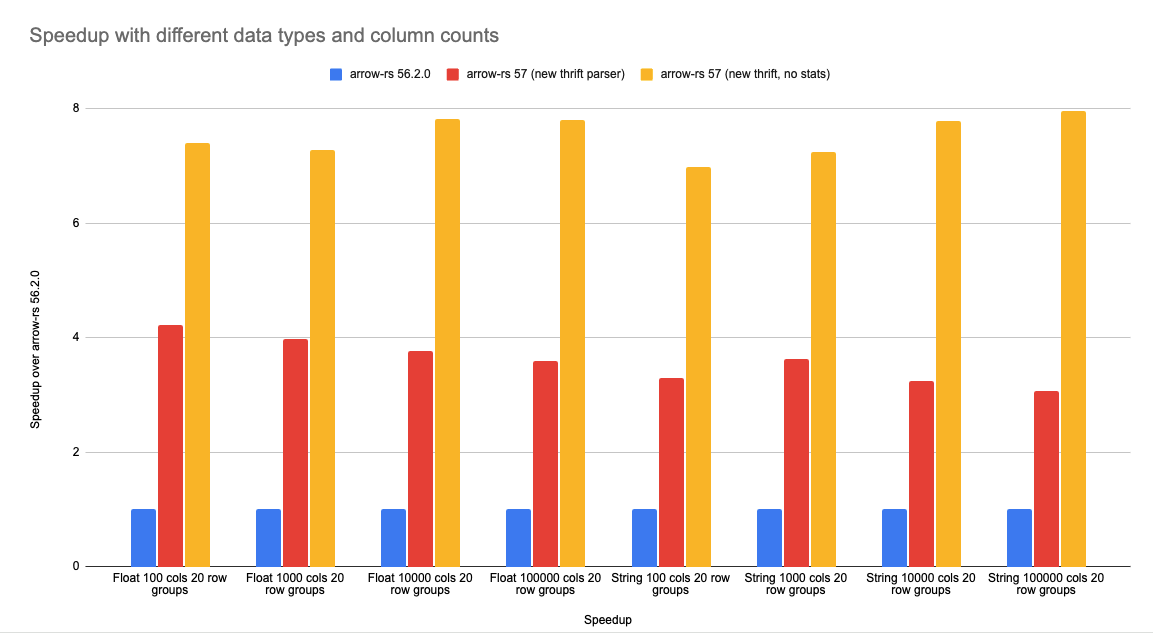
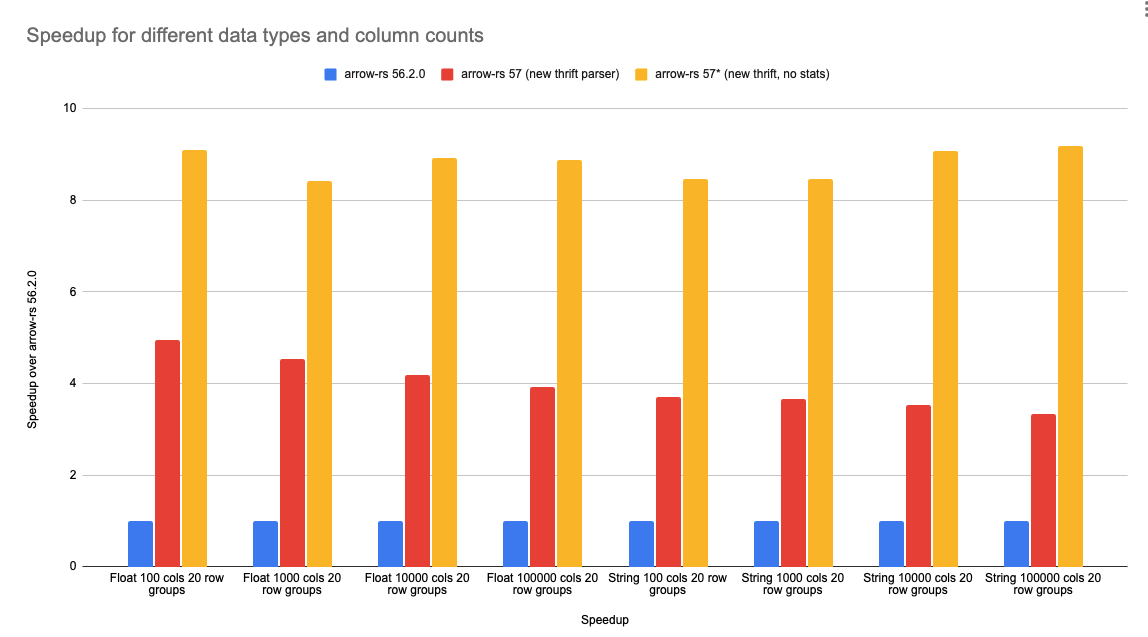
Update charts and results for Linux on released arrow 57

diff --git a/README.md b/README.md
@@ -197,18 +197,17 @@ System configuration: Apple M3 Max, 16-inch, Nov 2023 64GB RAM
 +-----------------------------------+---------------------+---------------------------+---------------------+---------------------------+--------------------------------+--------------------------------+
 ```
 
-CSV:
+CSV output:
 ```csv
 Description,Parse Time Arrow 56 Metadata (ns),Parse Time Arrow 56 PageIndex (Column/Offset) (ns),Parse Time Arrow 57 Metadata (ns),Parse Time Arrow 57 PageIndex (Column/Offset) (ns),Parse Time Arrow 57 (no stats) Metadata (ns),Parse Time Arrow 57 (no stats) PageIndex (Column/Offset) (ns)
- Float 100 cols 20 row groups,1294875,2073475,378395,302866,369862,0
- Float 1000 cols 20 row groups,11634720,19035100,3749433,3003558,3642020,0
- Float 10000 cols 20 row groups,129817650,207331179,41349737,39355841,37785258,0
- Float 100000 cols 20 row groups,1315675716,2083634491,415187495,449226879,382437870,0
- String 100 cols 20 row groups,1068729,1925558,423562,382321,353462,0
- String 1000 cols 20 row groups,10482854,18943345,4247812,3774325,3479541,0
- String 10000 cols 20 row groups,120658891,209021562,45431041,47823499,36336850,0
- String 100000 cols 20 row groups,1227258745,2152299291,463356495,552433658,367398450,0
-
+Float 100 cols 20 row groups,1294875,2073475,378395,302866,369862,0
+Float 1000 cols 20 row groups,11634720,19035100,3749433,3003558,3642020,0
+Float 10000 cols 20 row groups,129817650,207331179,41349737,39355841,37785258,0
+Float 100000 cols 20 row groups,1315675716,2083634491,415187495,449226879,382437870,0
+String 100 cols 20 row groups,1068729,1925558,423562,382321,353462,0
+String 1000 cols 20 row groups,10482854,18943345,4247812,3774325,3479541,0
+String 10000 cols 20 row groups,120658891,209021562,45431041,47823499,36336850,0
+String 100000 cols 20 row groups,1227258745,2152299291,463356495,552433658,367398450,0
 ```
 
 ## Results on Linux
@@ -225,32 +224,35 @@ Ubuntu 24.04.3 LTS
 |                                   |                     |                           |                     |                           |                                |                                |
 |                                   | Metadata            | PageIndex (Column/Offset) | Metadata            | PageIndex (Column/Offset) | Metadata                       | PageIndex (Column/Offset)      |
 +=========================================================================================================================================================================================================+
-|  Float 100 cols 20 row groups     | 2.566288ms          | 4.123198ms                | 796.756µs           | 684.034µs                 | 636.182µs                      | 0ns                            |
+|  Float 100 cols 20 row groups     | 2.822881ms          | 4.361313ms                | 846.353µs           | 666.451µs                 | 499.013µs                      | 0ns                            |
 |-----------------------------------+---------------------+---------------------------+---------------------+---------------------------+--------------------------------+--------------------------------|
-|  Float 1000 cols 20 row groups    | 25.895227ms         | 42.341734ms               | 7.972799ms          | 6.682272ms                | 6.41151ms                      | 0ns                            |
+|  Float 1000 cols 20 row groups    | 27.067827ms         | 43.140346ms               | 6.967499ms          | 6.347585ms                | 5.021332ms                     | 0ns                            |
 |-----------------------------------+---------------------+---------------------------+---------------------+---------------------------+--------------------------------+--------------------------------|
-|  Float 10000 cols 20 row groups   | 276.774864ms        | 509.465427ms              | 86.70366ms          | 84.486892ms               | 69.098354ms                    | 0ns                            |
+|  Float 10000 cols 20 row groups   | 289.293586ms        | 508.958878ms              | 75.802371ms         | 76.216344ms               | 54.793877ms                    | 0ns                            |
 |-----------------------------------+---------------------+---------------------------+---------------------+---------------------------+--------------------------------+--------------------------------|
-|  Float 100000 cols 20 row groups  | 2.855637398s        | 5.918709802s              | 875.855802ms        | 853.64883ms               | 699.769343ms                   | 0ns                            |
+|  Float 100000 cols 20 row groups  | 2.951604202s        | 5.231709739s              | 755.788675ms        | 758.020451ms              | 550.973199ms                   | 0ns                            |
 |-----------------------------------+---------------------+---------------------------+---------------------+---------------------------+--------------------------------+--------------------------------|
-|  String 100 cols 20 row groups    | 2.259842ms          | 3.809164ms                | 962.081µs           | 850.22µs                  | 627.781µs                      | 0ns                            |
+|  String 100 cols 20 row groups    | 2.559624ms          | 4.055637ms                | 1.028411ms          | 827.057µs                 | 485.581µs                      | 0ns                            |
 |-----------------------------------+---------------------+---------------------------+---------------------+---------------------------+--------------------------------+--------------------------------|
-|  String 1000 cols 20 row groups   | 22.97403ms          | 39.091372ms               | 9.131941ms          | 8.369599ms                | 6.374651ms                     | 0ns                            |
+|  String 1000 cols 20 row groups   | 23.93038ms          | 39.94606ms                | 8.137762ms          | 7.915083ms                | 4.909874ms                     | 0ns                            |
 |-----------------------------------+---------------------+---------------------------+---------------------+---------------------------+--------------------------------+--------------------------------|
-|  String 10000 cols 20 row groups  | 246.342284ms        | 440.506986ms              | 99.284968ms         | 96.088133ms               | 68.698424ms                    | 0ns                            |
+|  String 10000 cols 20 row groups  | 258.078736ms        | 452.136477ms              | 87.183576ms         | 90.996418ms               | 53.630656ms                    | 0ns                            |
 |-----------------------------------+---------------------+---------------------------+---------------------+---------------------------+--------------------------------+--------------------------------|
-|  String 100000 cols 20 row groups | 2.57461705s         | 4.850964762s              | 987.595674ms        | 932.900664ms              | 684.414417ms                   | 0ns                            |
+|  String 100000 cols 20 row groups | 2.649973875s        | 4.702651945s              | 872.627971ms        | 926.296932ms              | 540.400121ms                   | 0ns                            |
 +-----------------------------------+---------------------+---------------------------+---------------------+---------------------------+--------------------------------+--------------------------------+
+```
+
 CSV output:
-Description,Parse Time Arrow 56 Metadata (ms),Parse Time Arrow 56 PageIndex (Column/Offset) (ms),Parse Time Arrow 57 Metadata (ms),Parse Time Arrow 57 PageIndex (Column/Offset) (ms),Parse Time Arrow 57 (no stats) Metadata (ms),Parse Time Arrow 57 (no stats) PageIndex (Column/Offset) (ms)
- Float 100 cols 20 row groups,2,4,0,0,0,0
- Float 1000 cols 20 row groups,25,42,7,6,6,0
- Float 10000 cols 20 row groups,276,509,86,84,69,0
- Float 100000 cols 20 row groups,2855,5918,875,853,699,0
- String 100 cols 20 row groups,2,3,0,0,0,0
- String 1000 cols 20 row groups,22,39,9,8,6,0
- String 10000 cols 20 row groups,246,440,99,96,68,0
- String 100000 cols 20 row groups,2574,4850,987,932,684,0
+```csv
+Description,Parse Time Arrow 56 Metadata (ns),Parse Time Arrow 56 PageIndex (Column/Offset) (ns),Parse Time Arrow 57 Metadata (ns),Parse Time Arrow 57 PageIndex (Column/Offset) (ns),Parse Time Arrow 57 (no stats) Metadata (ns),Parse Time Arrow 57 (no stats) PageIndex (Column/Offset) (ns)
+Float 100 cols 20 row groups,2822881,4361313,846353,666451,499013,0
+Float 1000 cols 20 row groups,27067827,43140346,6967499,6347585,5021332,0
+Float 10000 cols 20 row groups,289293586,508958878,75802371,76216344,54793877,0
+Float 100000 cols 20 row groups,2951604202,5231709739,755788675,758020451,550973199,0
+String 100 cols 20 row groups,2559624,4055637,1028411,827057,485581,0
+String 1000 cols 20 row groups,23930380,39946060,8137762,7915083,4909874,0
+String 10000 cols 20 row groups,258078736,452136477,87183576,90996418,53630656,0
+String 100000 cols 20 row groups,2649973875,4702651945,872627971,926296932,540400121,0
 ```
 
 
